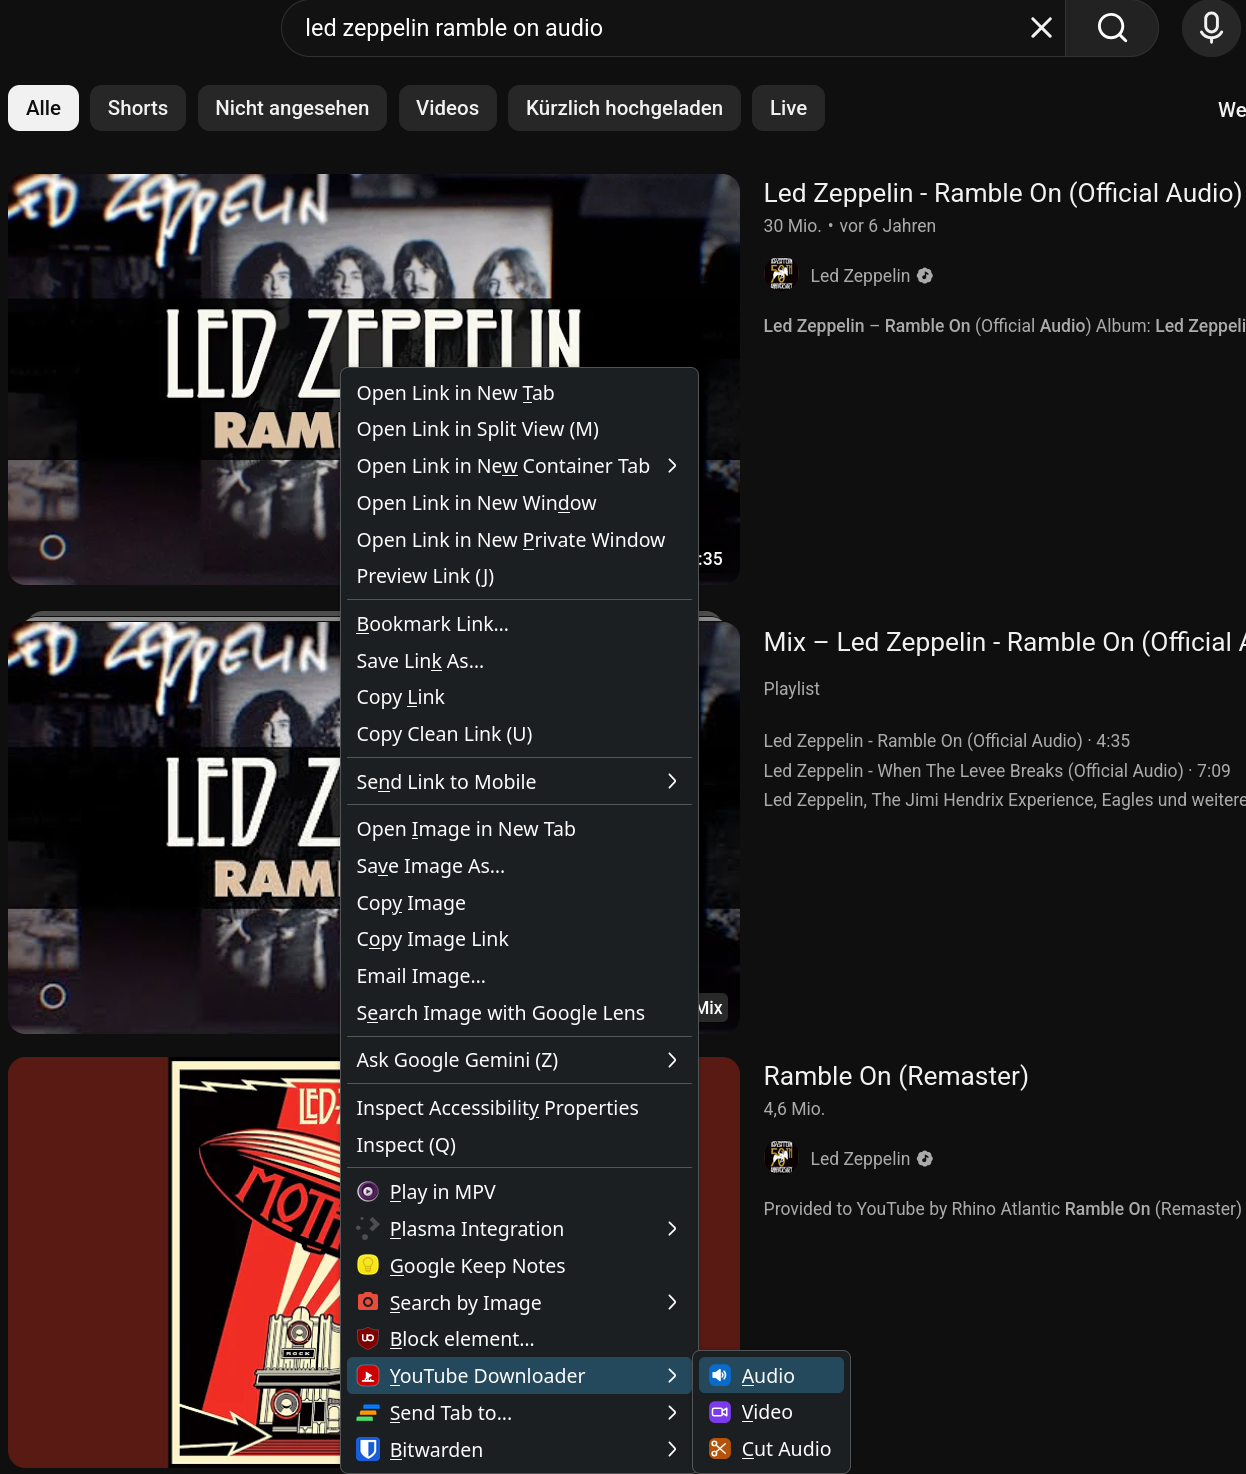
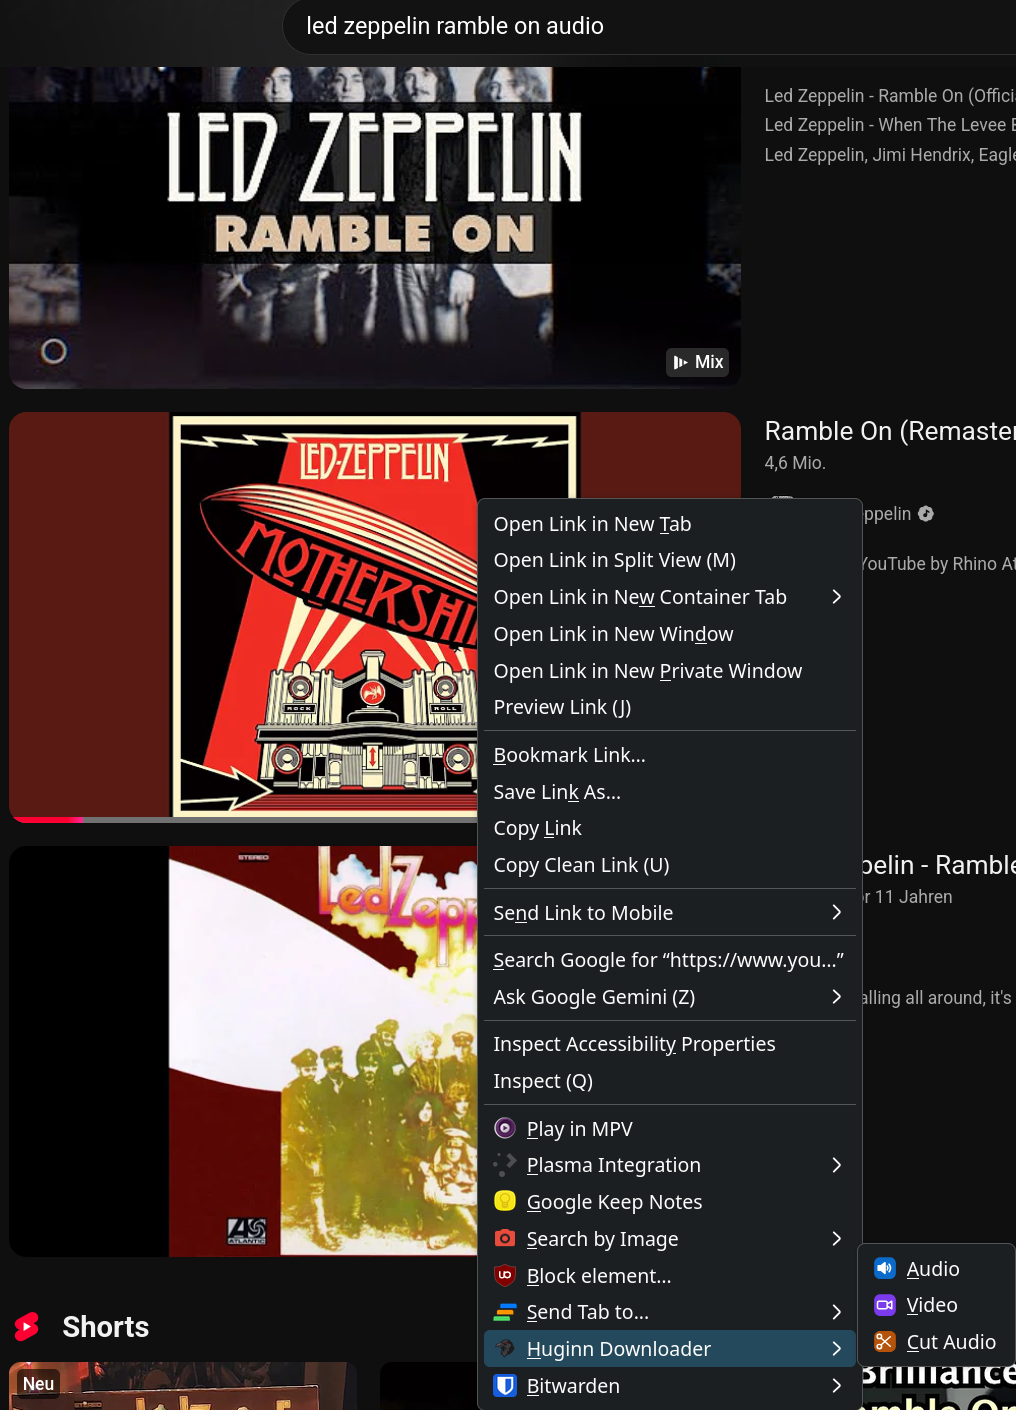
docs: refresh Huginn screenshots and prepare v2.5.2 release

diff --git a/tests/test_firefox_extension.js b/tests/test_firefox_extension.js
@@ -74,6 +74,12 @@ function testReadmeBrandAndSetupGuidance() {
   const normalizedReadme = readme.toLowerCase().replace(/\s+/g, ' ');
   assert.ok(readme.startsWith('# Huginn Downloader'), 'README uses the visible project brand');
   assert.ok(readme.includes('docs/logo/huginn-logo.webp'), 'README displays the transparent WebP logo on GitHub');
+  for (const shot of ['docs/screenshots/watch-page-pill.png', 'docs/screenshots/context-menu.png', 'docs/screenshots/toolbar-popup.png']) {
+    assert.ok(readme.includes(shot), `README embeds ${shot}`);
+    assert.ok(fs.existsSync(path.join(ROOT, shot)), `${shot} exists on disk`);
+  }
+  assert.ok(!readme.includes('predates the v2.5.1 rebrand'), 'stale pre-rebrand screenshot disclaimer is removed');
+  assert.ok(readme.includes('huginn-companion_2.5.2_all.deb'), 'README points Linux package examples to 2.5.2');
   assert.ok(
     normalizedReadme.includes('in parallel') && normalizedReadme.includes('without waiting for'),
     'README explains that multiple downloads can run in parallel without waiting'

diff --git a/release-notes.md b/release-notes.md
@@ -1,36 +1,29 @@
-# Huginn Downloader 2.5.1
+# Huginn Downloader 2.5.2
 
-Huginn Downloader is the renamed Firefox frontend for the locally installed
-Native Messaging companion and `yt-dlp` backend. Both the extension and
-companion are required. Existing Firefox add-on, Native Messaging, package,
-configuration, and install identifiers remain unchanged for upgrades.
+Huginn Downloader is the Firefox frontend for the locally installed Native
+Messaging companion and `yt-dlp` backend. Both the extension and companion are
+required. Existing Firefox add-on, Native Messaging, package, configuration,
+and install identifiers remain unchanged for in-place upgrades.
 
 ## Changes
 
-- Debian dependency setup checks commands and Python imports before installing
-  missing packages, so a PATH-installed `yt-dlp` is not replaced by an older
-  apt copy. Debian's companion package only hard-depends on Python 3.
-- Downloads prefer `~/.local/bin` tools when Firefox is launched from the
-  desktop. An outdated `yt-dlp` version is reported as a warning, not a
-  download gate.
-- Linux audio, video, and downloads presets follow XDG user directories,
-  including localized paths such as `~/Musik`. Populated legacy folders and
-  custom paths are preserved; files are not moved.
-- Turning off automatic tagging while a download is running skips the tagging
-  copy step and removes generated sidecars. Files with no usable tag metadata
-  or cover art also avoid an unnecessary copy. Long-audio routing remains
-  supported.
-- The settings popup uses concise audio-format labels and puts forced Opus last.
-  Pin Huginn Downloader to Firefox's toolbar for one-click access to settings.
-- Updated visible names, raven icon, repository links, and release asset names.
+- Replaced the raven artwork with the new layered vector logo across the
+  Firefox toolbar button, add-on metadata, context-menu root item, and GitHub
+  README header (`SVG`, lossless `WebP`, and archival lossless `AVIF`).
+- Refreshed the context-menu screenshot for the Huginn Downloader branding and
+  added a toolbar-popup screenshot showing live companion connection status and
+  format/tagging controls.
+- Documented that each triggered download starts an independent `yt-dlp`
+  session, allowing multiple audio, video, or cut downloads to run in parallel
+  without waiting for an active download to finish.
 
 ## Release files
 
 - `huginn-signed.xpi`
-- `huginn-companion_2.5.1_all.deb`
-- `huginn-companion-2.5.1-1.noarch.rpm`
-- `huginn-downloader-2.5.1-source.tar.gz`
-- `huginn-downloader-2.5.1-arch-pkgbuild.tar.gz`
+- `huginn-companion_2.5.2_all.deb`
+- `huginn-companion-2.5.2-1.noarch.rpm`
+- `huginn-downloader-2.5.2-source.tar.gz`
+- `huginn-downloader-2.5.2-arch-pkgbuild.tar.gz`
 
 Use Huginn Downloader only for content you are authorized to download. Running
 the companion locally does not itself grant download rights.

diff --git a/README.md b/README.md
@@ -24,9 +24,6 @@ extra conversion when they match your chosen settings.
 
 ## Screenshots & interface overview
 
-The context-menu screenshot predates the v2.5.1 rebrand; the current menu label
-is **Huginn Downloader**.
-
 ![Watch-page download pill](docs/screenshots/watch-page-pill.png)
 
 The watch-page pill starts audio, video, or cut downloads without leaving
@@ -38,6 +35,12 @@ standard metadata format used by automatic tagging.
 Huginn adds Audio, Video, and Cut Audio actions to Firefox's context menu.
 Custom keyboard shortcuts can run the local helper with the selected, active
 media, or clipboard URL.
+
+![Toolbar popup settings](docs/screenshots/toolbar-popup.png)
+
+Clicking the pinned raven icon in Firefox's toolbar opens the Huginn Downloader
+popup, showing live companion connection status alongside audio-format,
+automatic-tagging, cover-art, ReplayGain, diagnostic, and folder settings.
 
 Although the watch-page pill is YouTube-specific, the context menu and local
 helper also work with other media sites supported by `yt-dlp`.
@@ -89,7 +92,7 @@ studio master audio. You can recognize one by its description — it starts with
 `Auto-generated by YouTube.`
 
 Prefer these uploads whenever they exist — append **`audio`** to your YouTube
-search query (for example `led zeppelin rample on audio`, as in the context
+search query (for example `led zeppelin ramble on audio`, as in the context
 menu screenshot above) to surface them. They give you two benefits:
 
 1. **Best available audio quality.** The Art Track carries the highest-quality
@@ -319,7 +322,7 @@ installs it for the current user. Do not keep both installations active at once.
 
 ```sh
 # From the matching GitHub Release:
-sudo apt install ./huginn-companion_2.5.1_all.deb
+sudo apt install ./huginn-companion_2.5.2_all.deb
 ```
 
 The `.deb` requires Python 3 and suggests `yt-dlp`, FFmpeg, Mutagen, Pillow, and
@@ -358,7 +361,7 @@ extras or `rsgain` unless `--with-rsgain` is supplied.
 
 ```sh
 # From the matching GitHub Release:
-sudo apt install ./huginn-companion_2.5.1_all.deb
+sudo apt install ./huginn-companion_2.5.2_all.deb
 ```
 
 Or use the per-user installer:
@@ -375,11 +378,11 @@ suggested terminal. Install `rsgain` separately only if you use ReplayGain.
 
 ### Fedora
 
-Download `huginn-companion-2.5.1-1.noarch.rpm` from the
+Download `huginn-companion-2.5.2-1.noarch.rpm` from the
 matching release and install it with DNF:
 
 ```sh
-sudo dnf install ./huginn-companion-2.5.1-1.noarch.rpm
+sudo dnf install ./huginn-companion-2.5.2-1.noarch.rpm
 ```
 
 The RPM suggests Fedora's `ffmpeg-free` package, which has a limited codec
@@ -395,7 +398,7 @@ is not automatically submitted to the AUR.
 
 ```sh
 mkdir arch-recipe
-tar -xzf huginn-downloader-2.5.1-arch-pkgbuild.tar.gz -C arch-recipe
+tar -xzf huginn-downloader-2.5.2-arch-pkgbuild.tar.gz -C arch-recipe
 cd arch-recipe
 makepkg -si
 ```

diff --git a/docs/BACKLOG.md b/docs/BACKLOG.md
@@ -5,10 +5,7 @@
 - Removed the remote `feature/youtube-downloader-sdd` branch after confirming its PR (#1) was merged and it had no unique commits versus `main`.
 - Replaced the raven artwork with the maintainer-selected generated logo. Added an identically cropped transparent SVG, lossless WebP, and lossless AVIF in `docs/logo/`, embedded `docs/logo/huginn-logo.webp` at the top of `README.md`, and wired `extension/icons/huginn-logo.svg` directly into the toolbar and context-menu root.
 - Documented in `README.md` that downloads launch independent sessions and can run in parallel without waiting for an earlier download to finish.
-
-## Next build cycle
-
-- After the maintainer provides three updated screenshots, replace `docs/screenshots/watch-page-pill.png` and `docs/screenshots/context-menu.png`, and add a screenshot of the popup opened from the Firefox toolbar.
+- Replaced `docs/screenshots/context-menu.png` with the rebranded Huginn context-menu capture and added `docs/screenshots/toolbar-popup.png` to `README.md`.
 
 ## Companion distribution
 

diff --git a/docs/AMO-PUBLISHING.md b/docs/AMO-PUBLISHING.md
@@ -116,7 +116,7 @@ file themselves and cannot discover it by searching AMO.
     create the draft for that existing tag. For example:
 
     ```sh
-    VERSION=2.5.1
+    VERSION=2.5.2
     TAG="v$VERSION"
     git tag -a "$TAG" -m "$TAG"
     git push origin "$TAG"
@@ -137,8 +137,8 @@ file themselves and cannot discover it by searching AMO.
     manually dispatch it with `upload_to_draft=true` and the release tag:
 
     ```sh
-    gh workflow run release-linux-packages.yml --ref v2.5.1 \
-      -f upload_to_draft=true -f release_tag=v2.5.1
+    gh workflow run release-linux-packages.yml --ref v2.5.2 \
+      -f upload_to_draft=true -f release_tag=v2.5.2
     ```
 
     Verify all assets and their displayed SHA-256 digests, then publish the
